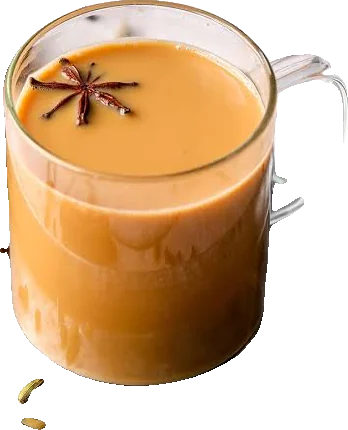
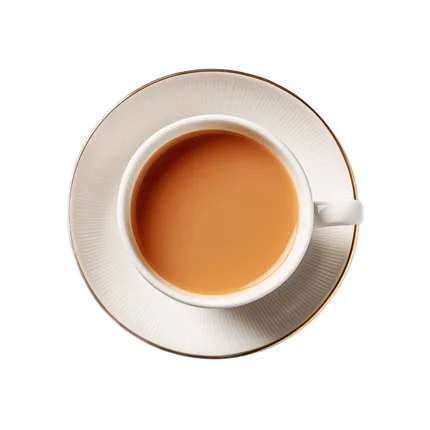
Cut-outs from the latest menu photos; fix Diet Sprite description

diff --git a/data/menu.js b/data/menu.js
@@ -40,7 +40,7 @@ export const MENU = [
   { id: "chai", name: "Chaialogy", script: "It’s science", glyph: "cup", note: "Chai isn’t just a drink, it’s science.", items: [
     { n: "Chaialogy Special", d: "Our signature house chai", p: 180, tag: "House", img: "/images/menu-cut/chaialogy-special-chai.webp", popular: true },
     { n: "Karak Chai", d: "Strong, slow-brewed karak", p: 150, img: "/images/menu-cut/karak-chai.webp" },
-    { n: "Doodh Patti", d: "Milk-brewed, rich and creamy", p: 150 , img: "/images/menu/doodhpati.jpg"},
+    { n: "Doodh Patti", d: "Milk-brewed, rich and creamy", p: 150 , img: "/images/menu-cut/doodh-patti.webp"},
     { n: "Chocolate Chai", d: "Chai with a chocolate finish", p: 180, img: "/images/menu-cut/chocolate-chai.webp" },
     { n: "Adrak Chai", d: "Ginger-spiced chai", p: 180, img: "/images/menu-cut/adrak-chai.webp" },
   ]},
@@ -56,7 +56,7 @@ export const MENU = [
     { n: "Mint Margarita", d: "Fresh mint and lemon, blended icy", p: 280, img: "/images/menu-cut/mint-margarita.webp" },
     { n: "Blue Lagoon Mocktail", d: "Blue curaçao mocktail with lemon", p: 260, img: "/images/menu-cut/blue-lagoon-mocktail.webp" },
     { n: "Lemonade", d: "Fresh squeezed lemonade", p: 220, img: "/images/menu-cut/lemonade.webp" },
-    { n: "Diet Sprite 500ml", d: "Spiced cumin soda", p: 280, img: "/images/menu/dietsprite500ml.jpg" },
+    { n: "Diet Sprite 500ml", d: "Sugar-free Sprite, 500 ml bottle", p: 280, img: "/images/menu-cut/diet-sprite-500-ml.webp" },
     { n: "Regular Drink", d: "Soft drink, regular", p: 100, flavours: SOFT_DRINKS, img: "/images/menu-cut/regular-drink.webp" },
     { n: "Drink 500 ml", d: "Soft drink, 500 ml bottle", p: 130, flavours: SOFT_DRINKS, img: "/images/menu-cut/drink-500-ml.webp" },
     { n: "Drinking Water", d: "Mineral water", sizes: { "½ Litre": 70, "1.5 Litre": 160 }, img: "/images/menu-cut/drinking-water-1-5-litre.webp" },
